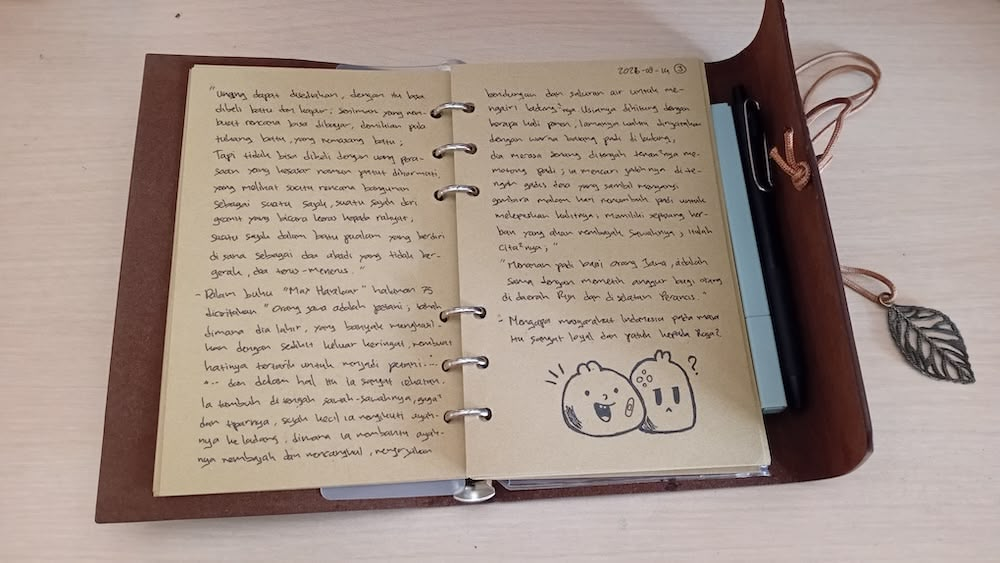
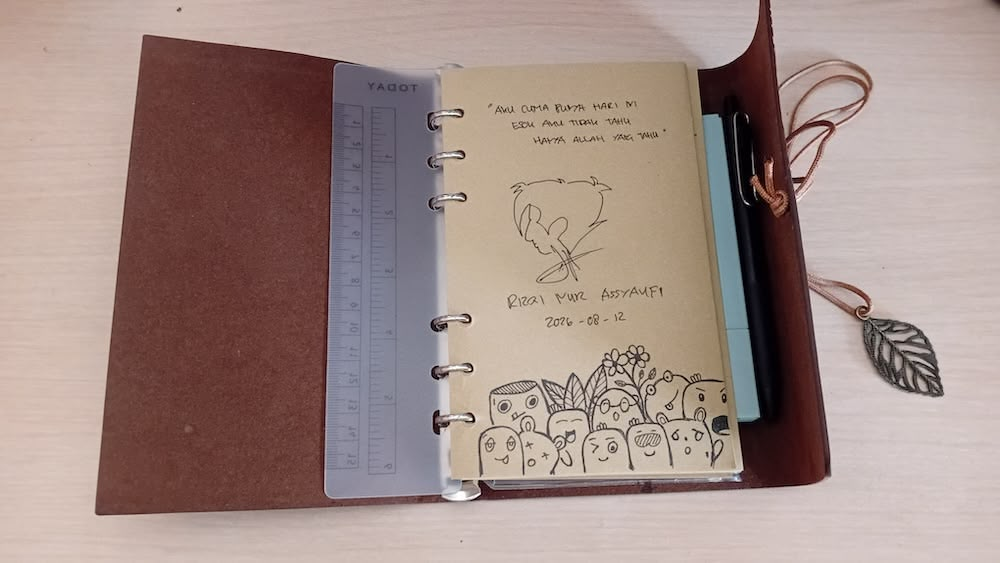
Update: Hobi Baru, Journaling dengan Kertas

diff --git a/_blogs/2026-08-17-hobi-baru-journaling-dengan-kertas.md b/_blogs/2026-08-17-hobi-baru-journaling-dengan-kertas.md
@@ -28,14 +28,15 @@ Tapi di jaman serba AI ini saya malah menyenangi menulis journal dengan tulisan 
 
 Sebab terbesarnya bisa jadi karena saya mulai menyenangi kembali membaca buku fisik. Sepanjang 2026 ini, saya banyak membaca buku fisik. Mungkin karena terlalu sering memegang kertas, saya jadi ingin menulis di atas kertas.
 
-![gambar_7]({% assets_path %}/gambar_07.jpg)
+![gambar_5]({% assets_path %}/gambar_05.jpg)
 
 Karena berinteraksi dengan kertas, selain menulis, saya juga jadi tertarik untuk menggambar. Dari dulu saya ingin sekali bisa menggambar sketsa. Saya mulai dari yang paling sederhana dulu (setidaknya menurut saya sederhana) yaitu "doodle". Karena saya tidak menyenangi menggunakan element stiker di jurnal saya, saya menggunakan element gambar untuk mengisi bagian-bagian yang kosong di jurnal.
 
-![gambar_5]({% assets_path %}/gambar_05.jpg)
-
 ![gambar_6]({% assets_path %}/gambar_06.jpg)
 
+![gambar_7]({% assets_path %}/gambar_07.jpg)
+
+![gambar_8]({% assets_path %}/gambar_08.jpg)
 
 Sebab lain yang mendorong keinginan menulis di kertas lagi adalah karena masa-masa sekarang ini lagi cukup sering mati lampu. Dan jika sudah mati lampu, saya hanya bisa membaca, tapi begitu ingin mencatat hal-hal yang menurut saya menarik, belum tentu laptop saya masih hidup. Kertas menjadi solusi yang paling dekat.
 
